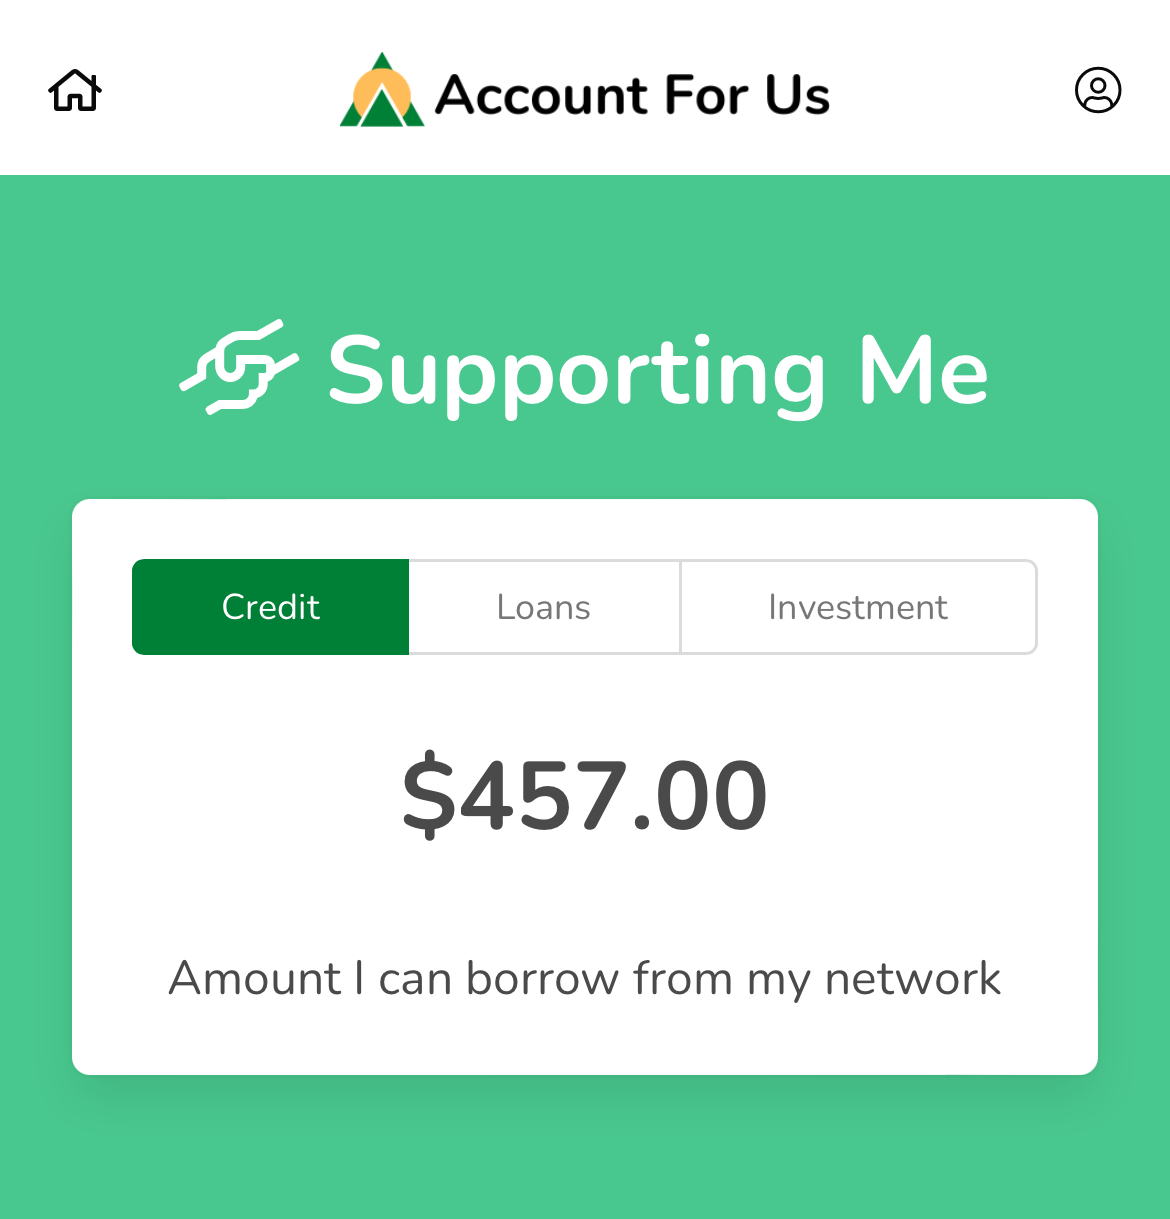
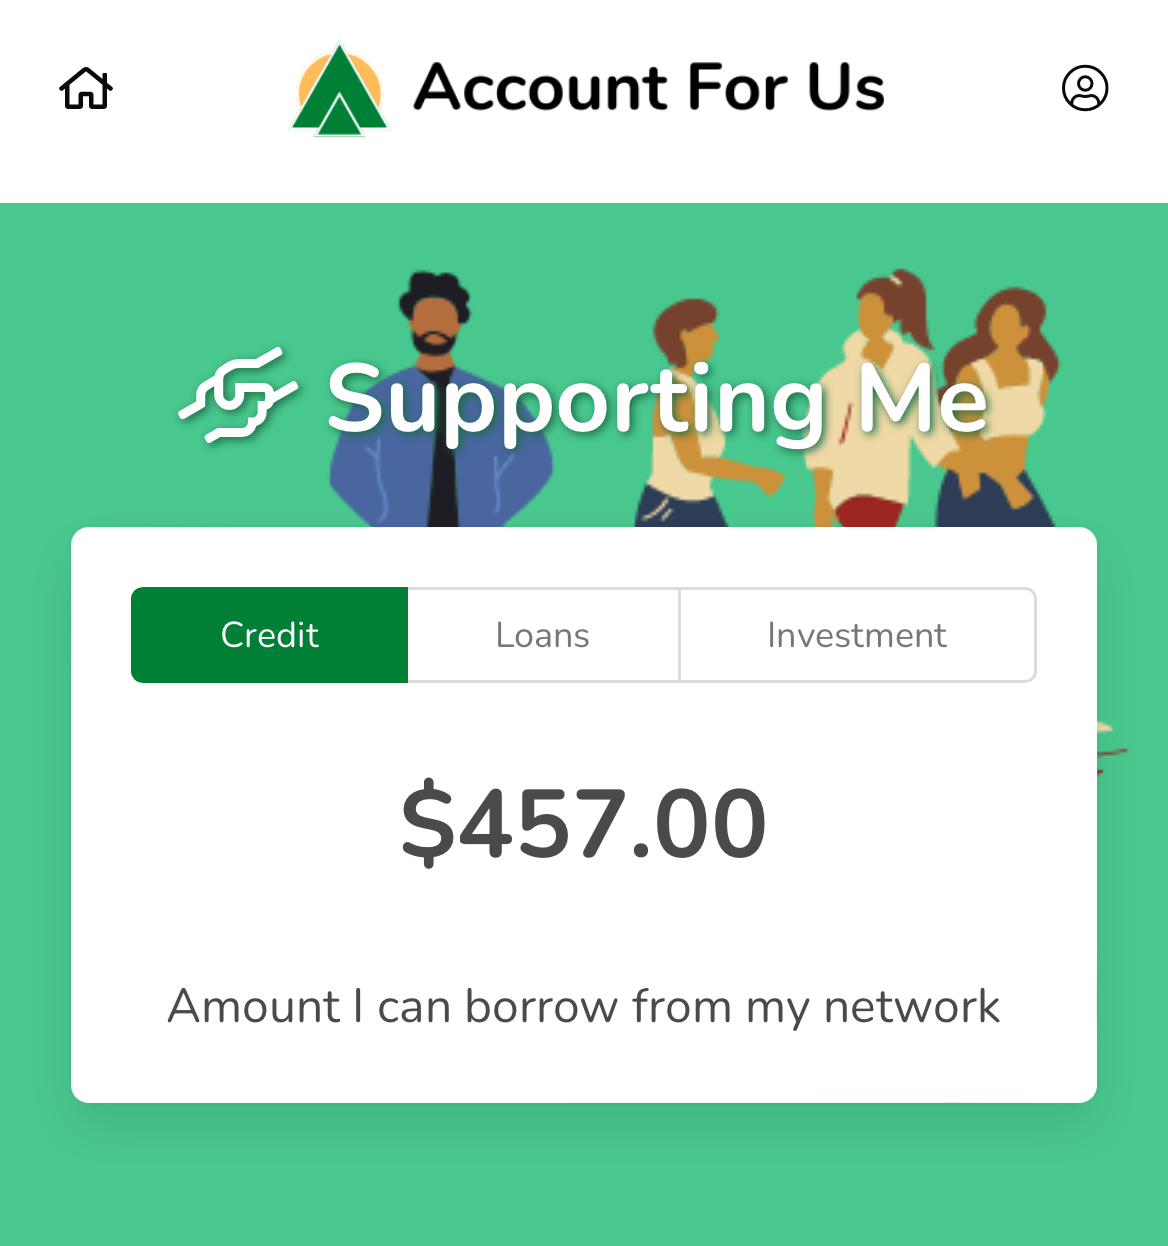
Remove shadow on text

diff --git a/themes/account-for-us/layouts/index.html b/themes/account-for-us/layouts/index.html
@@ -6,7 +6,7 @@
       <div class="hero-body has-text-centered">
         <div class="content-container">
           <div class="block mb-6">
-            <p class="title is-size-1 text-shadow-green">There is an Account For Us</p>
+            <p class="title is-size-1">There is an Account For Us</p>
             
             <img src="/img/people/3-family-tablet.png" style="height: 200px"/>
             
@@ -86,7 +86,7 @@
       <div class="hero-body has-text-centered">
         <div class="content-container">
           <div class="block mb-6">
-            <p class="title is-size-1 text-shadow-light-blue">We bank on each other</p>
+            <p class="title is-size-1">We bank on each other</p>
             <img src="/img/people/4-family.png" style="height: 200px"/>
           </div>
 
